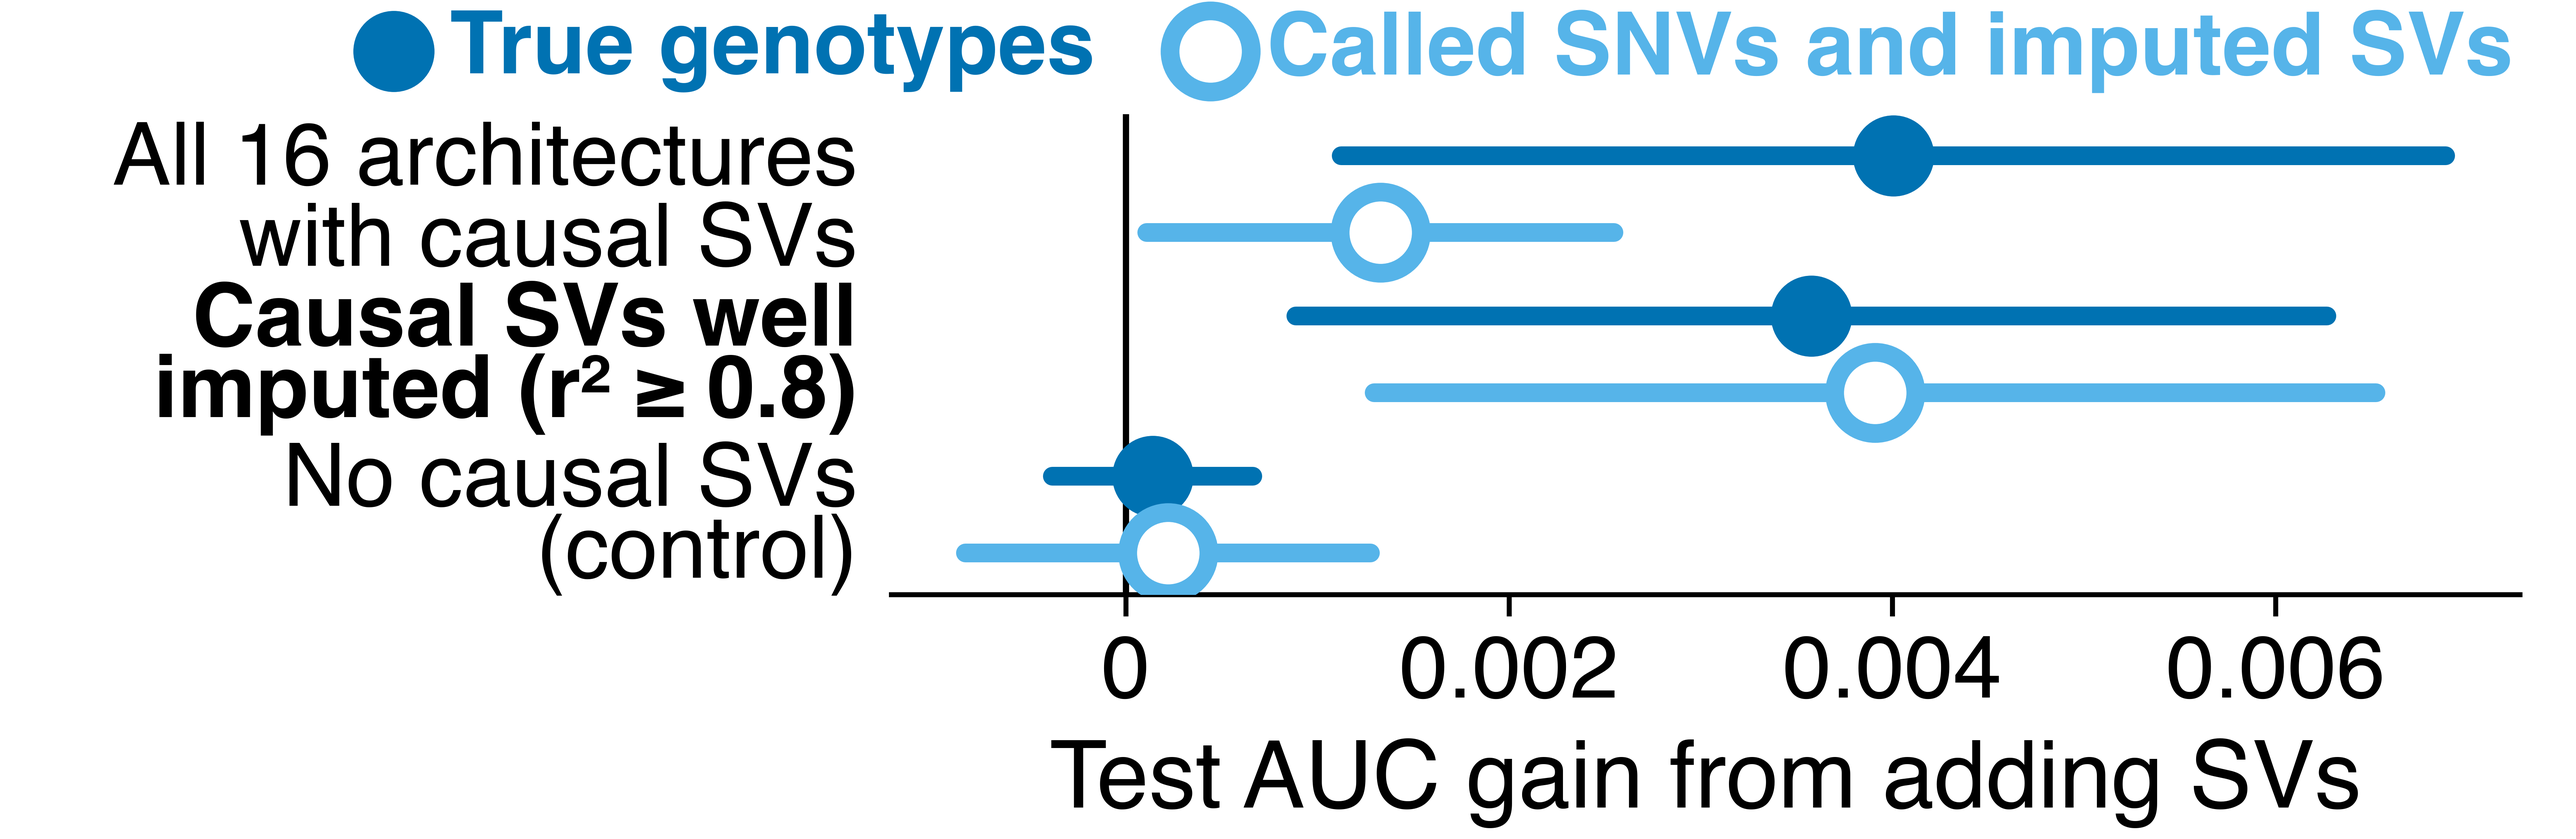
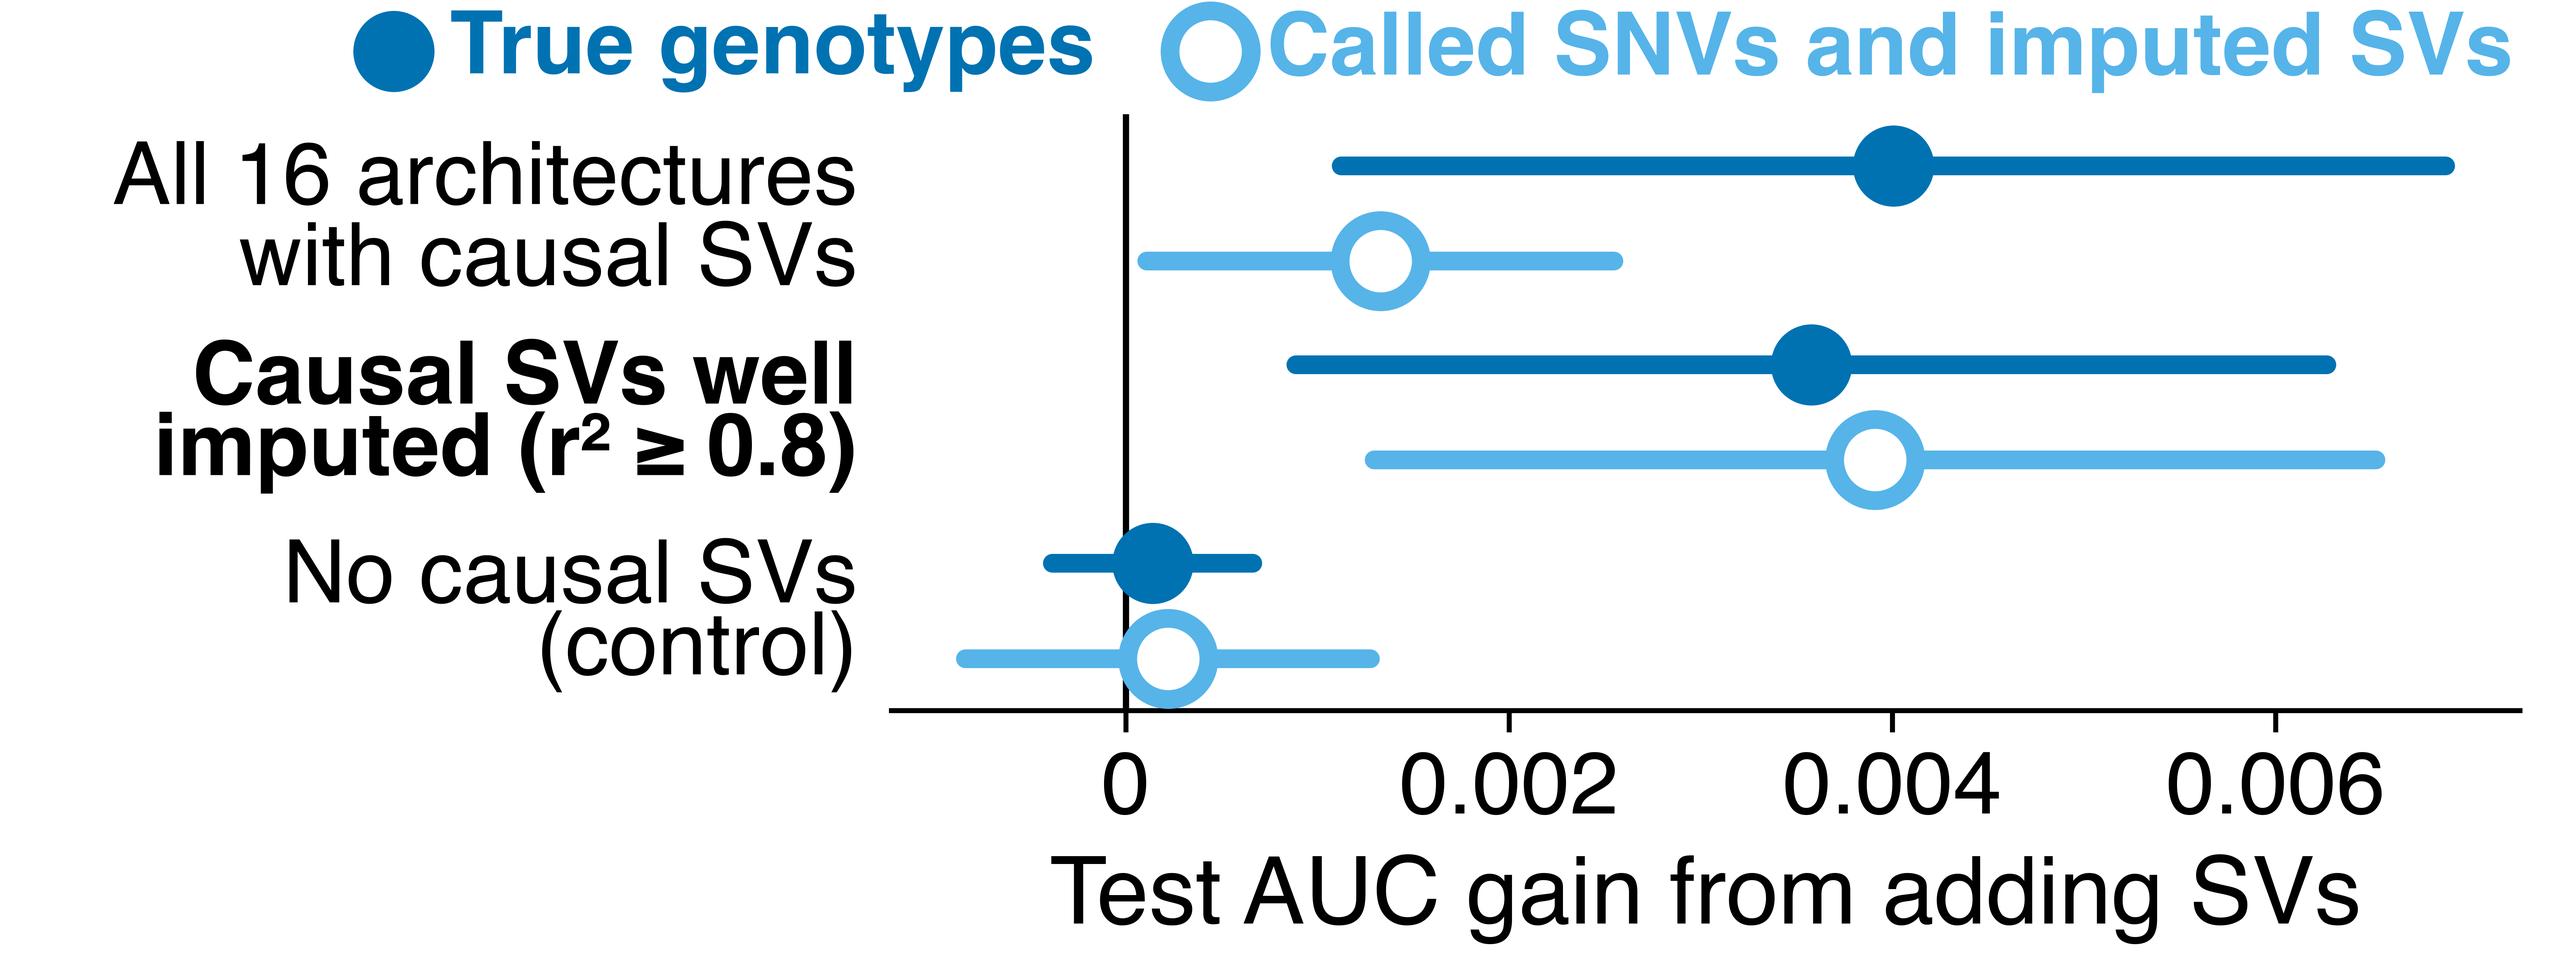
The poster's Discussion is a band across the foot of the middle and right columns, after All of Us, with the QR code, the repository's address and the references in small type at its right end (docs/poster/ashg2026/build_pptx.py, sim_gallery.py, aou_gallery.py). The right column holds only All of Us
Claude-Session: https://claude.ai/code/session_01XTX1JUgLVteQ3pwSnr9aa6

diff --git a/docs/poster/ashg2026/aou_gallery.py b/docs/poster/ashg2026/aou_gallery.py
@@ -45,11 +45,9 @@ ROW_GAP = 0.05
 """Inches between one row's name and the next row's: a row is a line of poster type and this gap."""
 LABEL_GAP = 0.3
 """Inches between the widest row name and the plot."""
-HEIGHT = 13.08
-"""Inches: the least height of the gain forest, which fills the right column from its text to the band of Discussion,
-code and references at the poster's foot (build_pptx.py's layout). Rows taller than a line of type have marks up to
-MARK_GROWTH times the poster's."""
-MARK_GROWTH = 1.5
+MARK = 1.5
+"""The forest's marks and intervals relative to the poster's (POSTER_MARK, POSTER_BAR): its rows are a line of type
+apart, and the room the right column has over them goes to the marks."""
 TRAITS = {
     "ldl_cholesterol": "LDL cholesterol", "egfr": "eGFR", "hypertension": "Hypertension",
     "type_2_diabetes": "Type 2 diabetes", "coronary_artery_disease": "Coronary disease",
@@ -67,15 +65,14 @@ def trait_name(trait: str) -> str:
 
 def forest(rows: list[tuple[str, float, float, float]], xlabel: str, ticks: list[float], tick_text, log: bool,
            reference: float | None = None, estimates: bool = False, bold: frozenset = frozenset(),
-           note: str | None = None, least: float = 0.0):
+           note: str | None = None):
     """A forest at the column's width in the imputed SVs' sky blue: a row per (label, estimate, low, high), its label
     at the left of the canvas and its interval level with it, each estimate an open mark as imputed SVs' are in the
     simulation figures (every All of Us SV is imputed), with the reference drawn (0, or 1 on a log axis, unless given).
     The axis runs from the first tick to the last, or with ``estimates`` symmetric about the reference over the
     estimates alone, so that each estimate's mark clears an arrowhead at the axis's end. Every margin and the rows'
-    pitch are measured from the type, so the forest is as short as its type allows, unless ``least`` inches is taller:
-    then its rows share that height and its marks grow with them. The labels in ``bold`` are set in bold, and ``note``
-    is one line under the axis title."""
+    pitch are measured from the type, so the forest is as short as its type allows. The labels in ``bold`` are set in
+    bold, and ``note`` is one line under the axis title."""
     reference = (1.0 if log else 0.0) if reference is None else reference
     fig = plt.figure(figsize=(COLUMN, 1.0))
     labels = [label for label, *_ in rows]
@@ -86,9 +83,8 @@ def forest(rows: list[tuple[str, float, float, float]], xlabel: str, ticks: list
     right = widest(fig, [tick_text(ticks[-1])], fontsize=POSTER_STYLE["font.size"]) / 2 + POSTER_PAD
     line = tallest(fig, [note], fontsize=POSTER_STYLE["font.size"]) + POSTER_PAD if note else 0.0
     top, bottom = POSTER_PAD, under_axes(fig, [xlabel]) + line
-    height = max(top + bottom + pitch * len(rows), least)
-    growth = min((height - top - bottom) / len(rows) / pitch, MARK_GROWTH)
-    mark, bar, ring = POSTER_MARK * growth, POSTER_BAR * growth, 6.0 * growth
+    height = top + bottom + pitch * len(rows)
+    mark, bar, ring = POSTER_MARK * MARK, POSTER_BAR * MARK, 6.0 * MARK
     # an arrowhead at the axis's start reaches half its width to the left, toward the names
     arrow = mark * 0.7 / 2 / 72
     left = max(widest(fig, [label], fontsize=POSTER_STYLE["font.size"], fontweight=weight[label])
@@ -171,7 +167,7 @@ def gain_figure(matched: list[dict], common: dict | None = None) -> tuple:
     note = UNCONVERGED if any(row.get("unconverged") for row in matched) else None
     # the axis spans the estimates, not their intervals; an interval that runs past it ends in an arrowhead
     fig = forest(rows, "Change in r² with SVs (%)", span([value for _, value, _, _ in rows]), percent, log=False,
-                 estimates=True, bold=frozenset({COMBINED}), note=note, least=HEIGHT)
+                 estimates=True, bold=frozenset({COMBINED}), note=note)
     return fig, ["Change in held-out partial r² from adding SVs to SV-PGS for each trait, relative to the r² without "
                  "SVs, with 95% intervals, an arrowhead marking an interval that runs past the axis"
                  + (", and in bold the traits' common change relative to the two models' mean r²" if common else "")]

diff --git a/docs/poster/ashg2026/build_pptx.py b/docs/poster/ashg2026/build_pptx.py
@@ -149,7 +149,7 @@ def copy(numbers: dict) -> dict:
                          "Polygenic scores rarely use SVs",
                          "We test if imputed SVs improve accuracy"],
         "methods": ["Priors depend on imputation r², frequency, SV length"],
-        "code": ["Code:", "github.com/", "SauersML/SV-PGS"],
+        "code": ["Code:", "github.com/SauersML/SV-PGS"],
         "design": [
             f"{people(svs['people'])} genomes simulated from 1000 Genomes chr22",
             # each setting's values over the grid's points (DESIGN_SETTINGS), listed rather than as a range
@@ -459,11 +459,16 @@ def text(paragraphs: list[Para]) -> Block:
 
 QR = 2.6
 """Inches: the side of the QR code to the repository."""
+ENDING = 9.3
+"""Inches: the width of the QR code and the small type beside it at the right end of the Discussion band, the least that
+sets the repository's address on one line."""
 
 
 def code(lines: list[str]) -> Block:
-    """A QR code to the repository with its address beside it."""
-    return Block("qr", [Para([(line, "b" if index else "")], BODY, bullet=False, after=0) for index, line in enumerate(lines)])
+    """A QR code to the repository with ``lines`` beside it in small type: "Code:", the address in bold, then the
+    references."""
+    return Block("qr", [Para([(line, "b" if index == 1 else "")], REFERENCE, bullet=False, after=0)
+                        for index, line in enumerate(lines)])
 
 
 def row(*children: list, shares: tuple = ()) -> Block:
@@ -657,14 +662,10 @@ def build() -> None:
     gallery = {name: GALLERY / f"{name}.png" for name in (
         "poster_wins", "poster_sv_gain", "poster_accuracy_by_training_size", "poster_imputation_accuracy",
         "poster_model")}
-    # the four references in small type under the repository's QR code, one to a line
-    references = Block("text", [Para([(f"{SUPERSCRIPT[index]}{reference}", "")], REFERENCE, bullet=False, after=0)
-                                for index, reference in enumerate(REFERENCES, start=1)])
     discussion = [bar(95, "Discussion"), text(bullets([*words["discussion"], *aou_result()]))]
-    ending = [code(words["code"]), references]
-    # the poster reads Introduction and Methods, the simulation's results, All of Us, then Discussion at the foot of the
-    # middle column, and the code and the references at the foot of the right one, the references in the poster's
-    # bottom right corner. The All of Us result (its common gain) adds two Discussion bullets and every trait's row.
+    # the poster reads Introduction and Methods, the simulation's results and All of Us, then the Discussion in a band
+    # across the foot of the middle and right columns, the QR code, the repository's address and the references at its
+    # right end. The All of Us result (its common gain) adds two Discussion bullets and every trait's row.
     columns = [
         [
             bar(97, "Introduction"), text(bullets(words["introduction"])),
@@ -683,13 +684,14 @@ def build() -> None:
         [bar(119, "All of Us"), text(bullets(words["aou"])), *aou_blocks()],
     ]
     poster = Poster(xml, rels, work / "ppt/media")
-    floors = [BOTTOM]
-    for (x, width), blocks in zip(COLUMNS[1:], (discussion, ending)):
-        top = BOTTOM - poster.stack_height(blocks, width)
-        poster.stack(blocks, x, top, width, None)
-        floors.append(top - GAPS["section"])
-    for (x, width), blocks, floor in zip(COLUMNS, columns, floors):
-        poster.stack(blocks, x, TOP, width, floor)
+    across = COLUMNS[2][0] + RIGHT - COLUMNS[1][0]
+    references = [f"{SUPERSCRIPT[index]}{reference}" for index, reference in enumerate(REFERENCES, start=1)]
+    band = [discussion[0], row(discussion[1:], [code([*words["code"], *references])],
+                               shares=(1 - ENDING / (across - GUTTER), ENDING / (across - GUTTER)))]
+    top = BOTTOM - poster.stack_height(band, across)
+    poster.stack(band, COLUMNS[1][0], top, across, None)
+    for index, ((x, width), blocks) in enumerate(zip(COLUMNS, columns)):
+        poster.stack(blocks, x, TOP, width, top - GAPS["section"] if index else BOTTOM)
     xml = poster.xml.replace("</p:spTree>", "".join(poster.shapes) + "</p:spTree>")
     rels = poster.rels
 

diff --git a/docs/poster/ashg2026/sim_gallery.py b/docs/poster/ashg2026/sim_gallery.py
@@ -811,7 +811,7 @@ sources written beside their marks. A poster figure carries no legend and no tit
 figure's own labels, state its message."""
 POSTER_LINE, POSTER_MARK, POSTER_BAR = 8.0, 26.0, 6.0
 """Points: a data line's width, a mean's marker and an interval's line in the poster's figures."""
-POSTER_HEIGHT = 10.65
+POSTER_HEIGHT = 9.62
 """Inches: the height of the two figures side by side at the top of the poster's middle column."""
 POSTER_HALF = 11.06
 """Inches: the width each of those two figures is placed at (half of build_pptx.py's 22.92 in middle column less its
@@ -922,7 +922,7 @@ def poster_accuracy_figure(grids, summary):
     levels = np.arange(math.ceil((upper - span) / 0.05) * 0.05, ceiling, 0.05)
     ax.set_yticks(levels, [f"{level:.2f}" for level in levels])
     # the title runs longer than the axis, so it ends at the axis's top and runs on into the margin under it
-    ax.set_ylabel("Test AUC, mean (95% CI)", loc="top")
+    ax.set_ylabel("Test AUC (95% CI)", loc="top")
     return fig
 
 
@@ -1003,7 +1003,7 @@ sv_min_realized_r2)."""
 POSTER_GAIN, POSTER_GENOTYPES = 22.92, 11.4
 """Inches: the widths of the SV gain forest (the poster's middle column, build_pptx.py's MIDDLE) and the imputation
 figure (the left column, LEFT), each placed at its column's full width."""
-POSTER_GAIN_HEIGHT = 7.47
+POSTER_GAIN_HEIGHT = 8.5
 """Inches: the SV gain forest's height, which fills the middle column from the training-size figures to the band of
 Discussion, code and references at its foot (build_pptx.py's layout)."""
 GAIN_WEIGHT, GAIN_OFFSET = 2.0, 0.24
